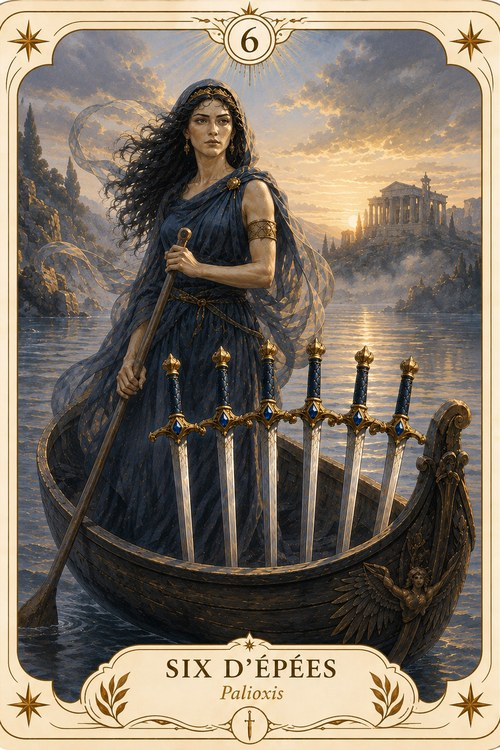
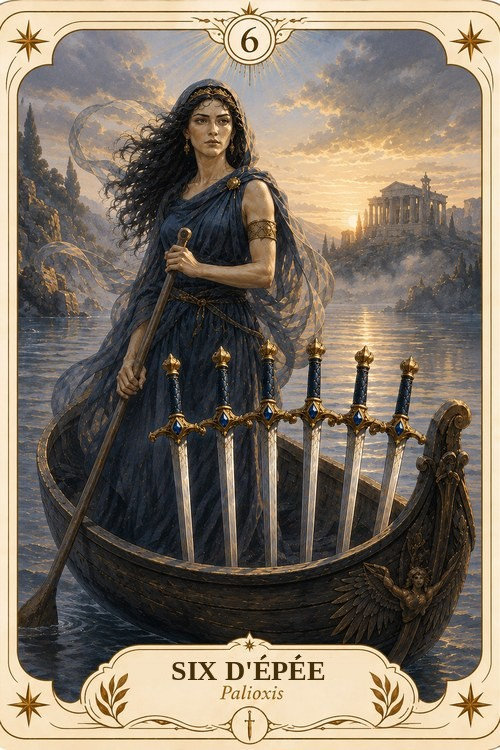
Corrige la vraie coquille : enlève le S en trop sur les 14 illustrations d'Épées, annule l'ajout sur Deniers
Retour direct d'utilisatrice : le nom d'enseigne sur le bandeau de
titre des cartes reste toujours au singulier dans ce jeu (« AS DE
DENIER », « AS DE BÂTON », « AS DE COUPE »), jamais au pluriel. La
véritable coquille se trouvait donc sur les 14 illustrations d'Épées
(« AS D'ÉPÉES » avec un S en trop), pas sur Deniers — l'ajout d'un S
à « DENIER » fait au tour précédent était une erreur, corrigée ici en
restaurant les 14 images de Deniers à leur état d'origine (texte
"DENIER" au singulier).

- assets/card-deniers-*.jpg (14 fichiers) : restaurés à l'état
  d'avant le tour précédent (texte "DENIER" singulier).
- assets/card-epees-*.jpg (14 fichiers) : le S de "ÉPÉES" retiré
  directement sur chaque image (texte effacé puis redessiné en place,
  même police/couleur/mise en page que l'original, sans tout
  régénérer) — "AS D'ÉPÉES" devient "AS D'ÉPÉE", etc.
- Aucun changement de nom de fichier, de CARD_IMAGES ni d'aucune autre
  donnée dans app.js — uniquement les 28 fichiers image sont modifiés.
- README.md corrigé pour refléter la bonne convention (singulier
  partout, l'exception corrigée était Épées).
- service-worker.js : cache delphes-v96 -> delphes-v97.

Claude-Session: https://claude.ai/code/session_01U3aLcH1JucbLstxQ1Hhqve

Changed region(s): [[0.33, 0.8587, 0.69, 0.92]]

diff --git a/service-worker.js b/service-worker.js
@@ -1,4 +1,4 @@
-const CACHE="delphes-v96";
+const CACHE="delphes-v97";
 const ASSETS=["./","./index.html","./styles.css","./app.js","./manifest.json","./icon.svg","./politique-confidentialite.html"];
 
 self.addEventListener("install",event=>{

diff --git a/README.md b/README.md
@@ -6,7 +6,7 @@ Application web (PWA) de tarot mythologique grec — tirage interactif, lecture 
 - `index.html` — structure de la page
 - `styles.css` — tous les styles (police Cinzel/EB Garamond, thème "divinatoire", animation de chargement en étoiles)
 - `app.js` — toute la logique (données des cartes, symboles, tirage, navigation, appel au backend IA)
-- `assets/` — illustrations des 22 arcanes majeurs (Le Mat, Bateleur, Papesse, Impératrice, Empereur, Pape, Amoureux, Chariot, Justice, Hermite, Roue de Fortune, Force, Pendu, Arcane sans nom, Tempérance, Diable, Maison-Dieu, Étoile, Lune, Soleil, Jugement, Monde) — collection complète. Les 56 cartes mineures sont désormais toutes illustrées elles aussi : Épées, Bâtons et Coupes de longue date (10 numérales + 4 figures de cour chacun, `card-epees-*.jpg`, `card-batons-*.jpg` et `card-coupes-*.jpg`), et Deniers en dernier (`card-deniers-*.jpg`, fournies par l'utilisatrice en 3 lots successifs — As à 5, puis 6 à 9 et le Valet, puis le 10 et les 3 dernières figures de cour Cavalier/Reine/Roi). **Les 78 cartes du jeu sont donc désormais toutes illustrées.** Les 14 illustrations de Deniers portaient toutes la même coquille sur leur bandeau de titre (« DENIER » sans le S final, ex. « AS DE DENIER ») — retour direct d'utilisatrice : corrigée directement sur chaque image (texte effacé puis redessiné en place, même police/couleur/mise en page, sans tout régénérer), sans aucun changement de nom de fichier ni de code. 5 illustrations (`learn-*.jpg`, 500×500) pour les cases de l'onglet Apprendre — `learn-symboles.jpg`, fournie par l'utilisatrice, complète la « Bibliothèque symbolique » qui n'en avait aucune jusque-là (retour direct : « mets cette illustration, au même format que les autres ») — et 4 illustrations (`suit-*.jpg`) pour les 4 enseignes dans les sous-sections « Figures de cour » et « Cartes numérales ». `reves-hero.jpg` (700×1050) illustre l'onglet Rêves (voir « Rêves — comment ça marche »).
+- `assets/` — illustrations des 22 arcanes majeurs (Le Mat, Bateleur, Papesse, Impératrice, Empereur, Pape, Amoureux, Chariot, Justice, Hermite, Roue de Fortune, Force, Pendu, Arcane sans nom, Tempérance, Diable, Maison-Dieu, Étoile, Lune, Soleil, Jugement, Monde) — collection complète. Les 56 cartes mineures sont désormais toutes illustrées elles aussi : Épées, Bâtons et Coupes de longue date (10 numérales + 4 figures de cour chacun, `card-epees-*.jpg`, `card-batons-*.jpg` et `card-coupes-*.jpg`), et Deniers en dernier (`card-deniers-*.jpg`, fournies par l'utilisatrice en 3 lots successifs — As à 5, puis 6 à 9 et le Valet, puis le 10 et les 3 dernières figures de cour Cavalier/Reine/Roi). **Les 78 cartes du jeu sont donc désormais toutes illustrées.** Convention de nommage sur les bandeaux de titre : le nom de l'enseigne y reste toujours au singulier (« AS DE DENIER », « AS DE BÂTON », « AS DE COUPE »), jamais au pluriel — seules les 14 illustrations d'Épées y dérogeaient (« AS D'ÉPÉES » avec un S en trop) ; retour direct d'utilisatrice, corrigé directement sur chaque image (texte effacé puis redessiné en place, même police/couleur/mise en page, sans tout régénérer), sans aucun changement de nom de fichier ni de code. 5 illustrations (`learn-*.jpg`, 500×500) pour les cases de l'onglet Apprendre — `learn-symboles.jpg`, fournie par l'utilisatrice, complète la « Bibliothèque symbolique » qui n'en avait aucune jusque-là (retour direct : « mets cette illustration, au même format que les autres ») — et 4 illustrations (`suit-*.jpg`) pour les 4 enseignes dans les sous-sections « Figures de cour » et « Cartes numérales ». `reves-hero.jpg` (700×1050) illustre l'onglet Rêves (voir « Rêves — comment ça marche »).
 - `manifest.json` + `icon.svg` — nécessaires pour l'installation en PWA
 - `service-worker.js` — cache offline
 - `politique-confidentialite.html` — page statique et autonome (pas de dépendance à `app.js`/`styles.css`, pour rester consultable même si le reste de l'appli change) requise avant toute publication sur l'App Store/Play Store — voir « Politique de confidentialité » plus bas
